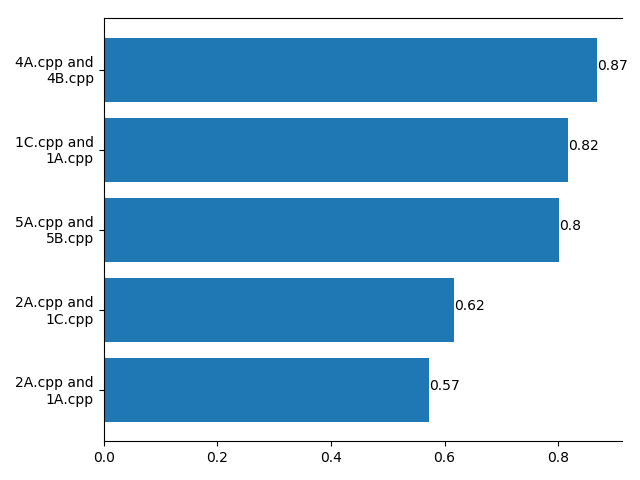
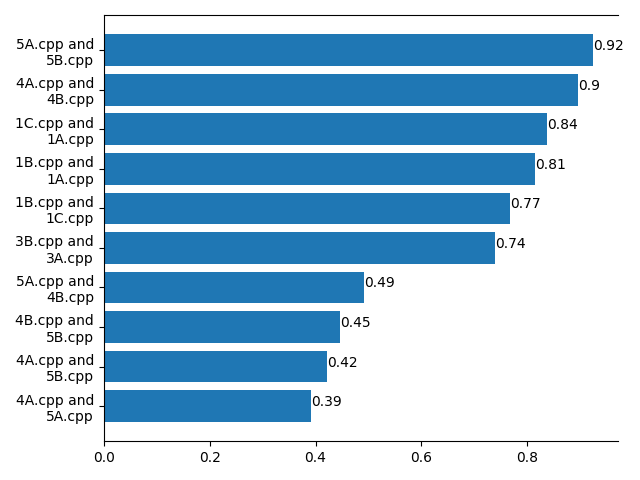
made sliiightly better

diff --git a/backend_LSA/mainBack.py b/backend_LSA/mainBack.py
@@ -6,41 +6,47 @@ import numpy as np
 import scipy.spatial.distance
 from zipfile import ZipFile
 import matplotlib.pyplot as plt
+# import ast
 
 def comment_remover_py(fname):
-    """ Run on just one file.
-    """
-    source = open(fname)
-    mod = open(fname + ",strip", "w")
+	source = open(fname)
+	dest = 'temp'
+	mod = open(dest, 'w')
 
-    prev_toktype = token.INDENT
-    first_line = None
-    last_lineno = -1
-    last_col = 0
+	prev_toktype = token.INDENT
+	first_line = None
+	last_lineno = -1
+	last_col = 0
 
-    tokgen = tokenize.generate_tokens(source.readline)
-    for toktype, ttext, (slineno, scol), (elineno, ecol), ltext in tokgen:
-        if 0:   # Change to if 1 to see the tokens fly by.
-            print("%10s %-14s %-20r %r" % (
-                tokenize.tok_name.get(toktype, toktype),
-                "%d.%d-%d.%d" % (slineno, scol, elineno, ecol),
-                ttext, ltext
-                ))
-        if slineno > last_lineno:
-            last_col = 0
-        if scol > last_col:
-            mod.write(" " * (scol - last_col))
-        if toktype == token.STRING and prev_toktype == token.INDENT:
-            # Docstring
-            mod.write("#--")
-        elif toktype == tokenize.COMMENT:
-            # Comment
-            mod.write("##\n")
-        else:
-            mod.write(ttext)
-        prev_toktype = toktype
-        last_col = ecol
-        last_lineno = elineno
+	tokgen = tokenize.generate_tokens(source.readline)
+	for toktype, ttext, (slineno, scol), (elineno, ecol), ltext in tokgen:
+		if 0:   # Change to if 1 to see the tokens fly by.
+			print("%10s %-14s %-20r %r" % (
+				tokenize.tok_name.get(toktype, toktype),
+				"%d.%d-%d.%d" % (slineno, scol, elineno, ecol),
+				ttext, ltext
+			))
+		if slineno > last_lineno:
+			last_col = 0
+		if scol > last_col:
+			mod.write(" " * (scol - last_col))
+		if toktype == token.STRING and prev_toktype == token.INDENT:
+			# Docstring
+			mod.write("\n")
+		elif toktype == tokenize.COMMENT:
+			# Comment
+			mod.write("\n")
+		else:
+			mod.write(ttext)
+		prev_toktype = toktype
+		last_col = ecol
+		last_lineno = elineno
+
+
+	# os.system('if [ -f '+dest+' ]; then echo '+dest+' found; fi')
+	# with open(fname,'wb') as wfd:
+	# 	with open('temp','rb') as fd:
+	# 		shutil.copyfileobj(fd, wfd)
 
 def comment_remover_cpp(text):
     def replacer(match):
@@ -71,7 +77,7 @@ if __name__ == "__main__":
 	outpPng = '../src/assets/results/outpImg.png'
 	outpHeatmap = '../src/assets/results/outpHeatmap.png'
 	# n such that top n results are displayed in the bar graph
-	barGraphParam = 5
+	barGraphParam = 10
 
 
 	zipFilePath = ''
@@ -91,19 +97,42 @@ if __name__ == "__main__":
 		tempF = os.path.join(directory, filenames[i])
 		fileExt = (os.path.splitext(tempF))[1]
 
+		### PREPROCESSING
 		if(fileExt == '.py'):
+			try:
+				with open(tempF,'r') as f:
+					python_code = f.read()
+					# root = ast.parse(python_code)
+					# names = sorted({node.id for node in ast.walk(root) if isinstance(node, ast.Name)})
+					line = re.sub('\w+(?=\()', 'fnCall', python_code)
+				with open(tempF,'w') as f:
+					f.write(line)
+			except:
+				print(tempF + " does not compile.")
 			comment_remover_py(tempF)
-		
-		if(fileExt == '.cpp'):
-			os.system('bash bashTest.sh ' + tempF)
-			os.system('cat temp > ' + tempF)
-			os.system('rm temp')
+			os.system('cat temp > '+tempF)
+							
+		elif(fileExt == '.cpp'):
+			try:
+				os.system('bash bashTest.sh ' + tempF)
+				os.system('cat temp > ' + tempF)
+				os.system('rm temp')
+			except Exception as e:
+				print(tempF + " does not compile.")
+				with open(tempF, 'r') as readF:
+					f = readF.read()
+					f = comment_remover_cpp(f);
+					tempF.write(f)
+
+			
 		
 		with open(tempF,'r') as readF:
 
 			f = readF.read()
-			f = f.replace(';', ' ')
+			f = f.lower()
+			f = f.replace(';', ' ').replace('\n', ' ')
 			f = re.sub(r"\s\s+", ' ', f);
+			f = re.sub('fncall', 'F', f);
 			# print(tempF)
 			# print(f)
 			for word in f.split():
@@ -113,6 +142,8 @@ if __name__ == "__main__":
 
 	baseArray = np.array(list(baseDict.values()))
 	
+	# print(baseArray.shape)
+
 	u, s, v = np.linalg.svd(baseArray, False)
 	lowRank = 1+int((baseArray.shape[0])/5)
 
@@ -121,6 +152,8 @@ if __name__ == "__main__":
 
 	if(lowRank > 300):
 		lowRank = 300
+
+	# print(baseArray.shape[0], lowRank)
 
 	uRed = u[:lowRank, :]
 	sRed = np.diag(s[:lowRank])
@@ -142,9 +175,11 @@ if __name__ == "__main__":
 				f.write(str(abs(round(finalRes[min(i,j),max(i,j)],3))) + ",")
 			f.write("\n")
 	
+	finalRes = np.power(finalRes, 6)
+
 	tempRes = np.array(finalRes, copy=True)
 	tempRes = np.maximum(tempRes, tempRes.transpose())
-
+	
 	for i in range(numFiles):
 		finalRes[i,i] = 0
 
@@ -156,23 +191,20 @@ if __name__ == "__main__":
 	for pos in range(numDisp):
 		dicTop5[finalRes[np.argmax(finalRes)]] = str(filenames[np.argmax(finalRes) % numFiles]) + " and\n" + str(filenames[np.argmax(finalRes) // numFiles])
 		finalRes[np.argmax(finalRes)] = 0
-	top5Names = [key for key in sorted(dicTop5)]
-	top5Coeffs = [dicTop5[key] for key in top5Names]
+	top5Coeffs = [key for key in sorted(dicTop5)]
+	top5Names = [dicTop5[key] for key in top5Coeffs]
 	
 	fig, ax = plt.subplots()
-	ax.barh(range(len(dicTop5)), top5Names)
-	plt.yticks(range(len(dicTop5)), top5Coeffs)
+	ax.barh(range(len(dicTop5)), top5Coeffs)
+	plt.yticks(range(len(dicTop5)), top5Names)
 
-	for index, value in enumerate(top5Names):
+	for index, value in enumerate(top5Coeffs):
 	    plt.text(value, index, str(round(value,2)))
 	right_side = ax.spines["right"]
 	right_side.set_visible(False)
 
 	plt.tight_layout()
 	plt.savefig(outpPng)
-	
-	# finalRes = np.reshape(finalRes, (numFiles,numFiles))
-	# print(finalRes)
 
 	fig, ax = plt.subplots()
 	# print(finalRes.shape)
@@ -199,9 +231,10 @@ if __name__ == "__main__":
 	ax.set_title("Heatmap of degree of plagiarism")
 	fig.tight_layout()
 	plt.savefig(outpHeatmap)
+	# print(top5Coeffs)
 	
 	try:
 		os.system('rm -r inputDir')
-		# os.system('rm temp')
+		os.system('if [ -f temp ]; then rm temp; fi')
 	except OSError as error:
 		print("Directory does not exist.")
